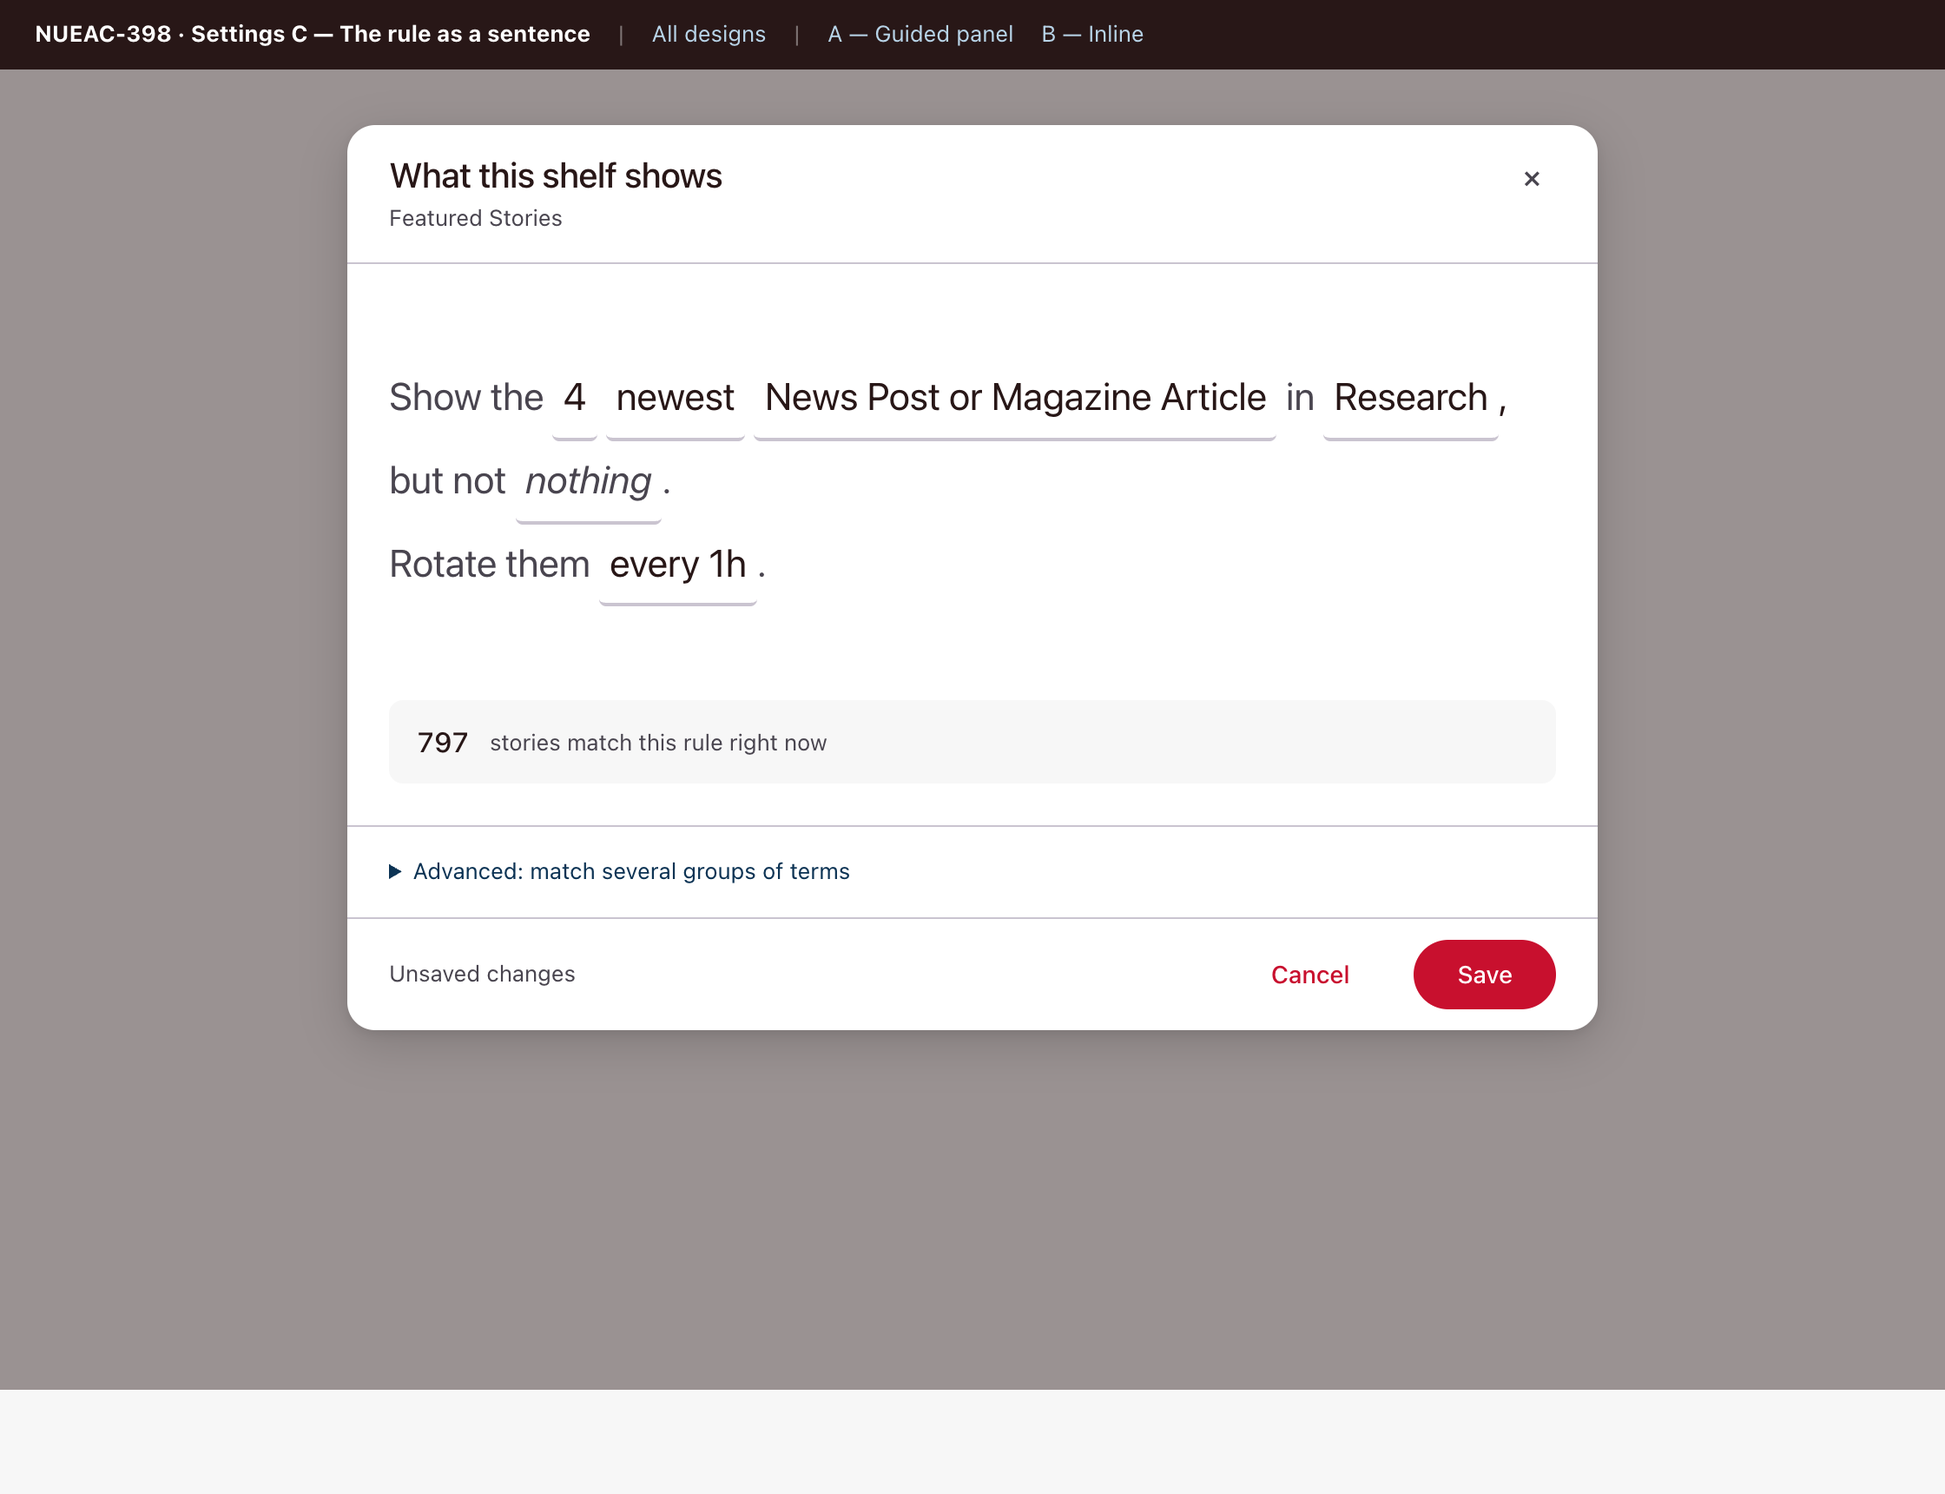
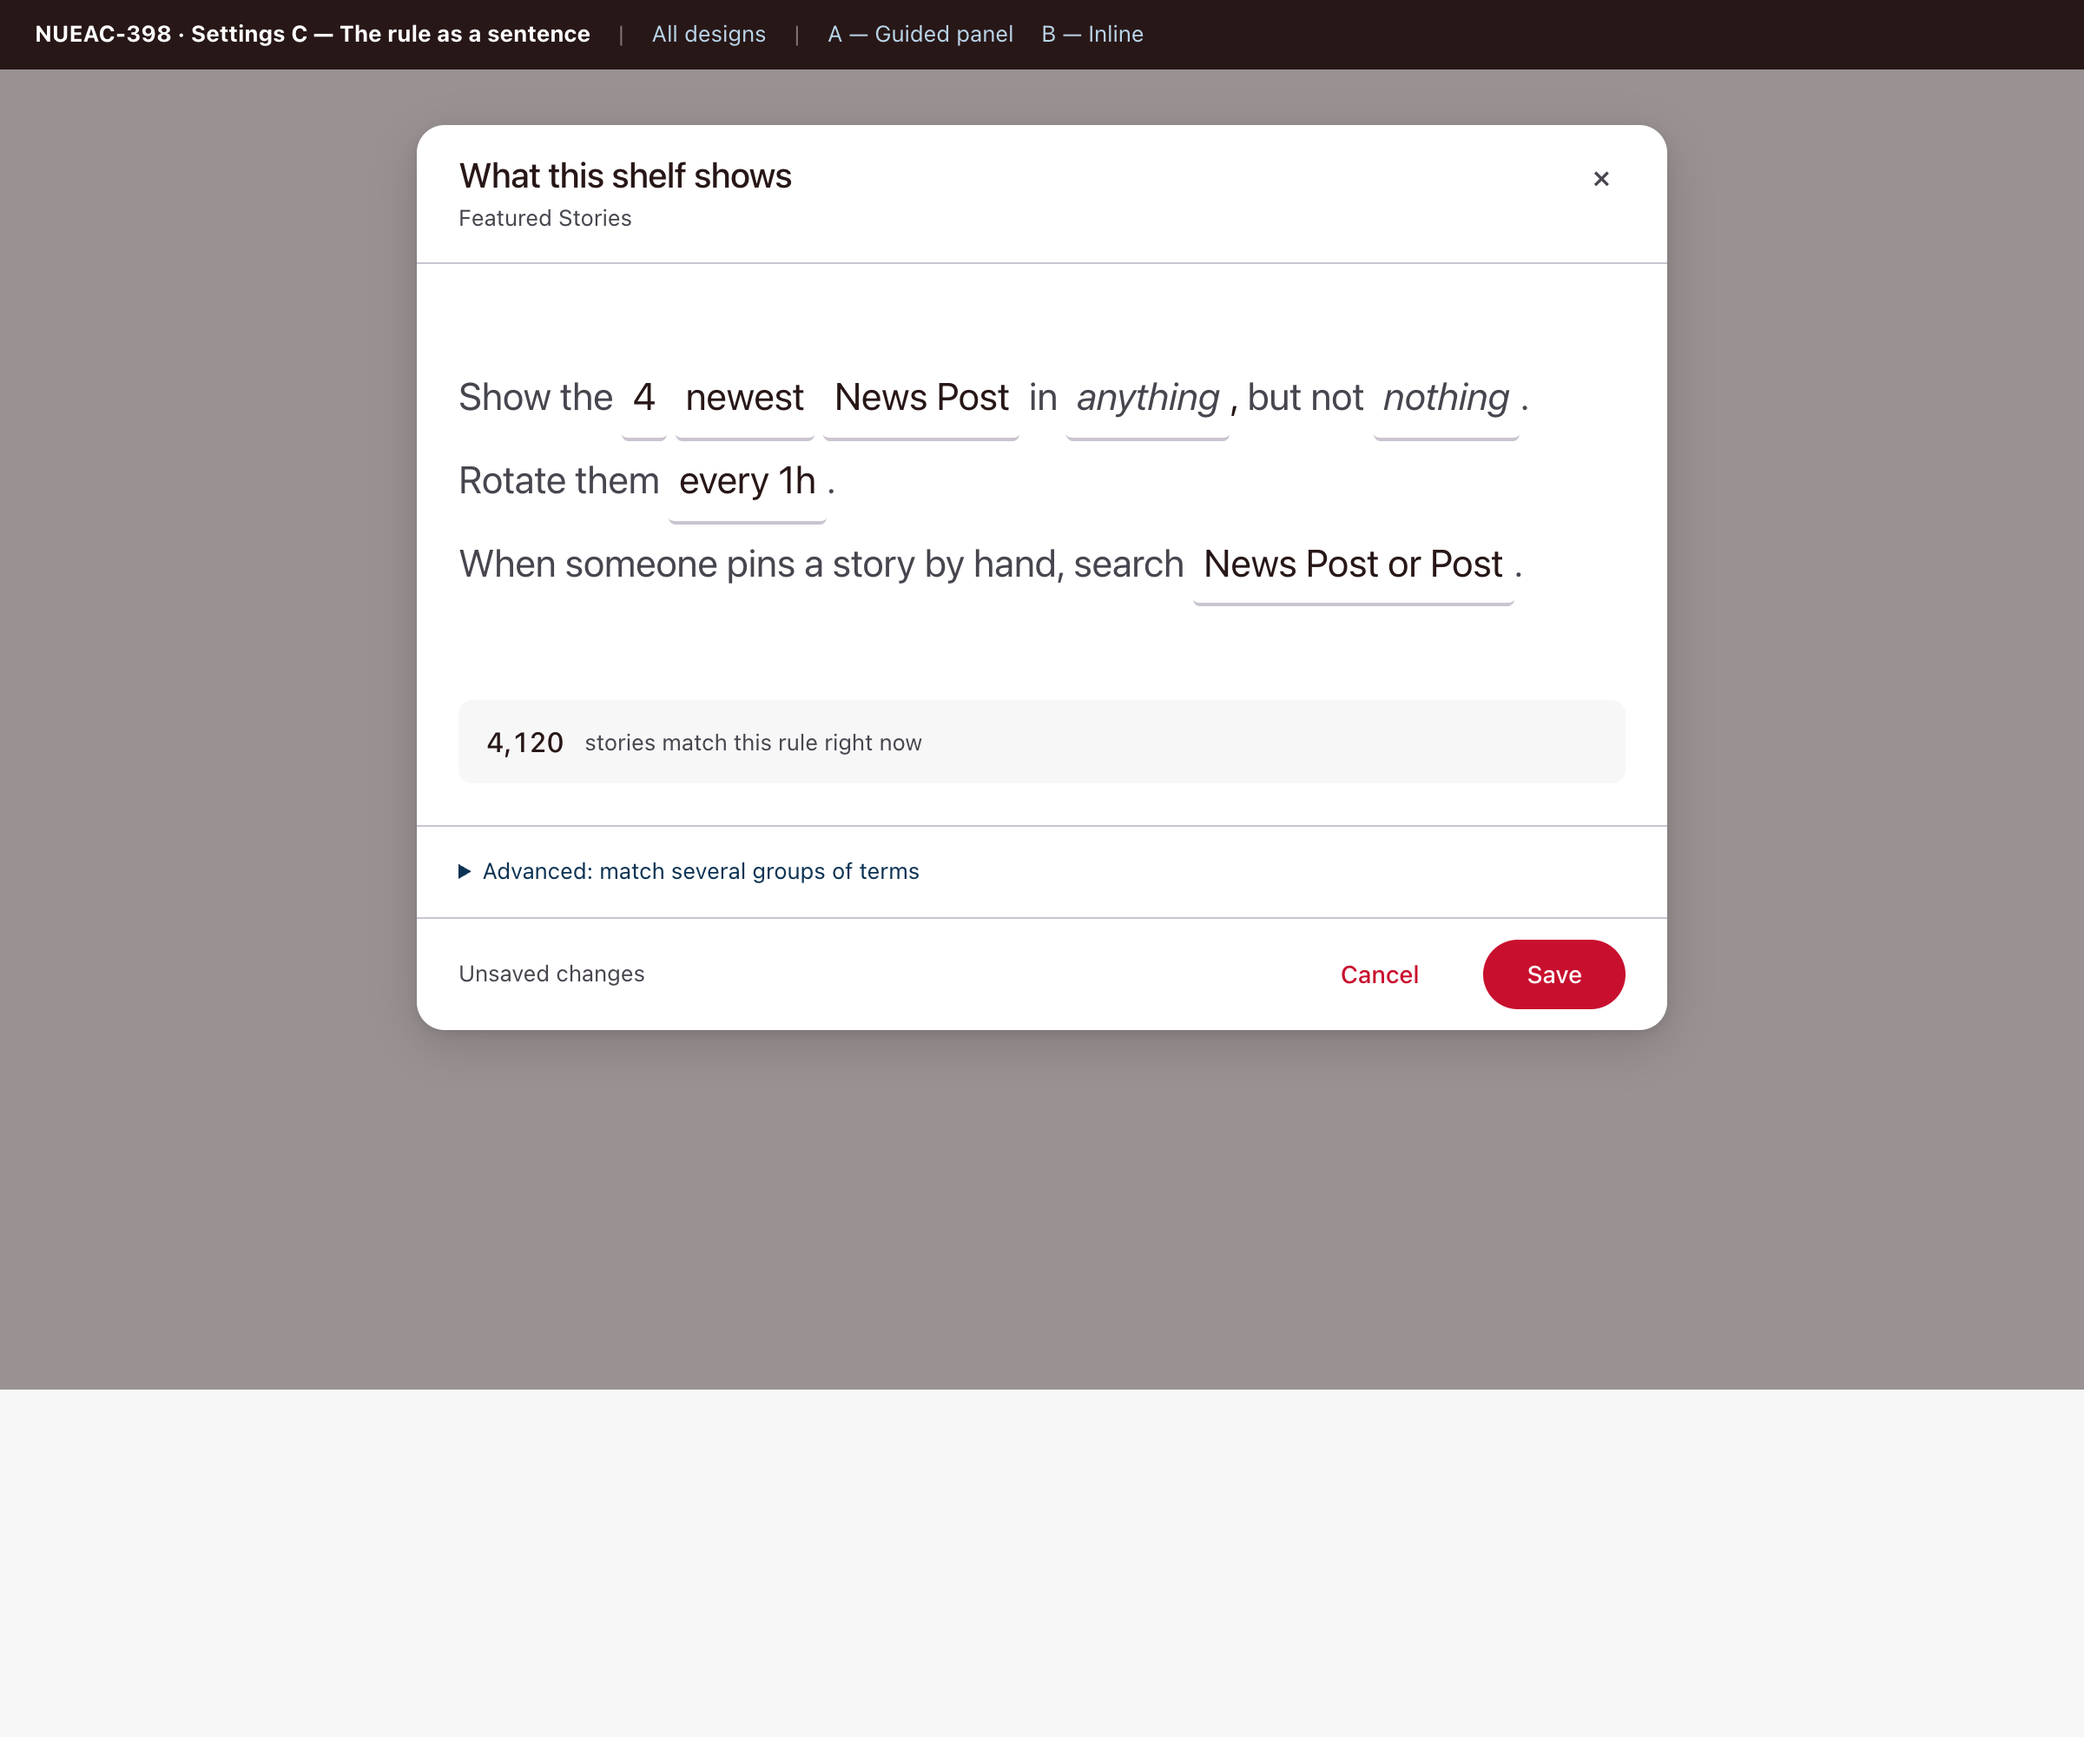
Complete Design C, and keep the taxonomy choice while picking terms
C was preferred in review for how it reads, so it was audited against
QuerySettings the same way D was and had the same three gaps.

The sort window now reads inside the sentence and only for a most-viewed
sort. Rotation is not offered with that sort, because the model never
saves it there, and the sentence says why rather than leaving a control
that quietly does nothing. Search post types became its own short
sentence, since what a hand-pinned search offers is a different question
from what fills the shelf.

Also fixes a bug found stress-testing it: picking a term re-rendered the
editor and reset the taxonomy dropdown to Category, so two kicker terms
in a row was impossible.

Measured the worst case rather than guessing at it. Four post types,
three includes and three excludes gives 46 words over eight lines, still
readable with no page overflow, but no longer a glance.

Changed region(s): [[0.0, 0.0, 1.0, 0.7087], [0.0, 0.8012, 1.0, 0.9552]]

diff --git a/06-settings-sentence.html b/06-settings-sentence.html
@@ -112,7 +112,9 @@
 <script>
 (function () {
   var s = JSON.parse(JSON.stringify(SHELF));
-  var open = null, touched = false;
+  s.windowDays = 14;
+  s.searchTypes = null;   // null means "same as the types above"
+  var open = null, touched = false, taxKey = TAXONOMIES[0].k;
   var $ = function (id) { return document.getElementById(id); };
   var esc = function (t) { return String(t).replace(/[&<>]/g, function (c) { return { '&': '&amp;', '<': '&lt;', '>': '&gt;' }[c]; }); };
   var typeName = function (k) { var t = POST_TYPES.filter(function (x) { return x.k === k; })[0]; return t ? t.n : k; };
@@ -123,17 +125,37 @@
   }
 
   function rule() {
-    return '<span class="plain">Show the</span> ' + tok('count', s.count) + ' ' +
-      tok('sort', s.sort === 'Newest' ? 'newest' : 'most viewed') + ' ' +
-      tok('types', s.types.length ? s.types.map(typeName).join(' or ') : 'pick a type', !s.types.length) +
-      ' <span class="plain">in</span> ' +
+    var views = s.sort === 'Most viewed';
+
+    var main = '<span class="plain">Show the</span> ' + tok('count', s.count) + ' ' +
+      tok('sort', views ? 'most viewed' : 'newest') + ' ' +
+      tok('types', s.types.length ? s.types.map(typeName).join(' or ') : 'pick a type', !s.types.length);
+
+    // A most-viewed sort only counts recent posts, so the window belongs in
+    // the sentence rather than hidden in a field somewhere.
+    if (views) main += ' <span class="plain">from the last</span> ' + tok('window', s.windowDays + ' days');
+
+    main += ' <span class="plain">in</span> ' +
       tok('include', s.include.length ? s.include.map(function (f) { return f.term; }).join(' and ') : 'anything', !s.include.length) +
       ', <span class="plain">but not</span> ' +
       tok('exclude', s.exclude.length ? s.exclude.map(function (f) { return f.term; }).join(' or ') : 'nothing', !s.exclude.length) +
-      '<span class="plain">.</span><br>' +
-      '<span class="plain">Rotate them</span> ' +
-      tok('rotation', s.rotation.on ? 'every ' + s.rotation.interval : 'never', !s.rotation.on) +
       '<span class="plain">.</span>';
+
+    // Rotation and a most-viewed sort are mutually exclusive in the model,
+    // so the sentence says so rather than offering a control that is dropped.
+    var rot = views
+      ? '<br><span class="plain">A most-viewed order changes on its own, so there is no rotation.</span>'
+      : '<br><span class="plain">Rotate them</span> ' +
+        tok('rotation', s.rotation.on ? 'every ' + s.rotation.interval : 'never', !s.rotation.on) +
+        '<span class="plain">.</span>';
+
+    // Which types a hand-pinned search offers is a different question from
+    // what fills the shelf, so it gets its own short sentence.
+    var manual = '<br><span class="plain">When someone pins a story by hand, search</span> ' +
+      tok('searchTypes', s.searchTypes === null ? 'the same types' : (s.searchTypes.length ? s.searchTypes.map(typeName).join(' or ') : 'nothing'), s.searchTypes === null) +
+      '<span class="plain">.</span>';
+
+    return main + rot + manual;
   }
 
   function editor() {
@@ -161,7 +183,9 @@
     if (open === 'include' || open === 'exclude') {
       var bucket = open === 'include' ? s.include : s.exclude;
       return '<div class="editor">' + head(open === 'include' ? 'Only stories tagged' : 'Never stories tagged') +
-        '<select id="e-tax">' + TAXONOMIES.map(function (x) { return '<option value="' + x.k + '">' + esc(x.n) + '</option>'; }).join('') + '</select>' +
+        '<select id="e-tax">' + TAXONOMIES.map(function (x) {
+          return '<option value="' + x.k + '"' + (x.k === taxKey ? ' selected' : '') + '>' + esc(x.n) + '</option>';
+        }).join('') + '</select>' +
         '<div class="chips" id="e-terms"></div>' +
         (bucket.length ? '<div class="chips" style="padding-top:8px;border-top:1px solid var(--ngn-outline-variant)">' +
           bucket.map(function (f) {
@@ -169,6 +193,21 @@
               ' <button class="chip-remove" type="button" data-rm="' + esc(f.term) + '" aria-label="Remove">&times;</button></span>';
           }).join('') + '</div>' : '') +
         done + '</div>';
+    }
+    if (open === 'window') {
+      return '<div class="editor">' + head('How far back a most-viewed sort looks') +
+        '<div style="display:flex;gap:8px;align-items:center"><input type="number" id="e-window" min="1" value="' + s.windowDays + '" style="width:110px">' +
+        '<span class="t-body-sm muted">days</span></div>' +
+        '<p class="t-body-sm muted" style="margin:0">Only posts published inside this window are counted.</p>' + done + '</div>';
+    }
+    if (open === 'searchTypes') {
+      var custom = s.searchTypes !== null;
+      return '<div class="editor">' + head('Types the manual search offers') +
+        '<label style="display:flex;gap:8px;align-items:center;cursor:pointer"><input type="checkbox" id="e-same" ' +
+        (custom ? '' : 'checked') + '> <span class="t-label">Same as the types above</span></label>' +
+        (custom ? '<div class="chips">' + POST_TYPES.filter(function (t) { return t.common; }).map(function (t) {
+          return '<button class="chip' + (s.searchTypes.indexOf(t.k) > -1 ? ' is-on' : '') + '" type="button" data-stype="' + t.k + '">' + esc(t.n) + '</button>';
+        }).join('') + '</div>' : '') + done + '</div>';
     }
     if (open === 'rotation') {
       return '<div class="editor">' + head('Rotation') +
@@ -185,7 +224,8 @@
   function drawTerms() {
     var host = $('e-terms');
     if (!host) return;
-    var tax = TAXONOMIES.filter(function (x) { return x.k === $('e-tax').value; })[0];
+    taxKey = $('e-tax').value;
+    var tax = TAXONOMIES.filter(function (x) { return x.k === taxKey; })[0];
     host.innerHTML = tax.terms.map(function (t) {
       return '<button class="chip" type="button" data-term="' + esc(t) + '" data-tax="' + esc(tax.n) + '">' + esc(t) + '</button>';
     }).join('');
@@ -221,15 +261,24 @@
       if (j > -1) b2.splice(j, 1);
       return render();
     }
+    var st = ev.target.closest('[data-stype]');
+    if (st) {
+      touched = true;
+      var si = s.searchTypes.indexOf(st.dataset.stype);
+      if (si > -1) s.searchTypes.splice(si, 1); else s.searchTypes.push(st.dataset.stype);
+      return render();
+    }
     if (t) { open = open === t.dataset.tok ? null : t.dataset.tok; return render(); }
   });
 
   document.addEventListener('input', function (ev) {
     if (ev.target.id === 'e-count') { touched = true; s.count = +ev.target.value || 1; $('rule').innerHTML = rule(); $('count').textContent = matchCount(s).toLocaleString(); }
     if (ev.target.id === 'e-int') { touched = true; s.rotation.interval = ev.target.value; $('rule').innerHTML = rule(); }
+    if (ev.target.id === 'e-window') { touched = true; s.windowDays = Math.max(1, +ev.target.value || 1); render(); }
   });
   document.addEventListener('change', function (ev) {
     if (ev.target.id === 'e-rot') { touched = true; s.rotation.on = ev.target.checked; render(); }
+    if (ev.target.id === 'e-same') { touched = true; s.searchTypes = ev.target.checked ? null : s.types.slice(); render(); }
   });
 
   render();

diff --git a/TICKETS.md b/TICKETS.md
@@ -115,3 +115,26 @@ The time was right and the sentence was not. It rotates hourly from midnight, so
 
 It now says both things: "Runs every 1h from 12:00 AM. Next at 1:00 PM, in 23 min." The
 schedule and the next run are different facts and the line was only giving one of them.
+
+**Design C completed against the real model.** Preferred in review for reading well, so
+it was audited the same way D was.
+
+It was missing the same three things, now added:
+
+- `sortWindowDays` reads inside the sentence: "the 4 most viewed News Post **from the
+  last 30 days**". It only appears for a most-viewed sort.
+- Rotation and a most-viewed sort are mutually exclusive, so instead of offering a
+  control that gets dropped the sentence says "A most-viewed order changes on its own,
+  so there is no rotation."
+- `searchPostTypes` gets its own short sentence, since what a hand-pinned search offers
+  is a different question from what fills the shelf: "When someone pins a story by hand,
+  search the same types."
+
+A bug found while stress-testing it: choosing a term re-rendered the editor and snapped
+the taxonomy dropdown back to Category, so picking two kicker terms in a row was
+impossible. The open taxonomy is now remembered.
+
+**Where it still strains.** With four post types, three include terms and three exclude
+terms the sentence runs to 46 words over eight lines. It stays readable and the page does
+not overflow, but it is no longer a glance. Most shelves are far smaller than that, so
+this is a question of how often the worst case turns up rather than a fault.
